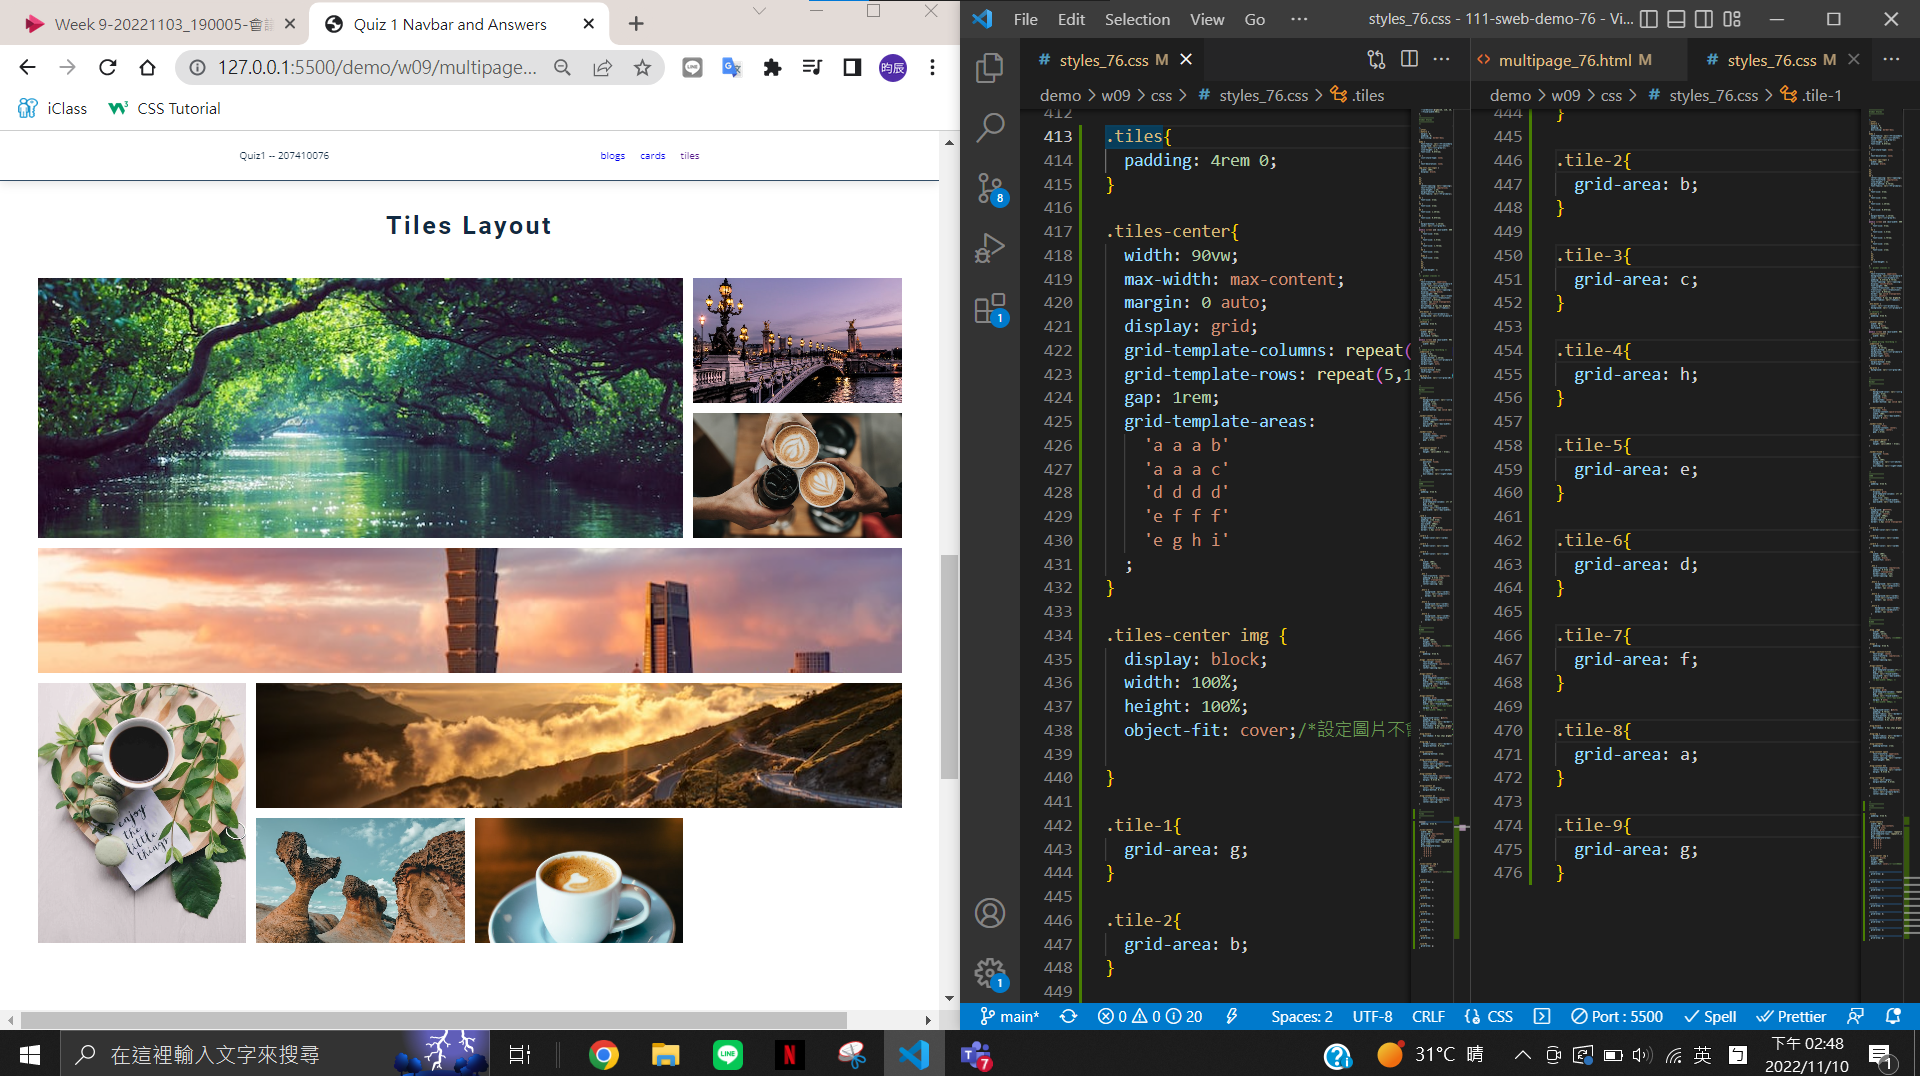
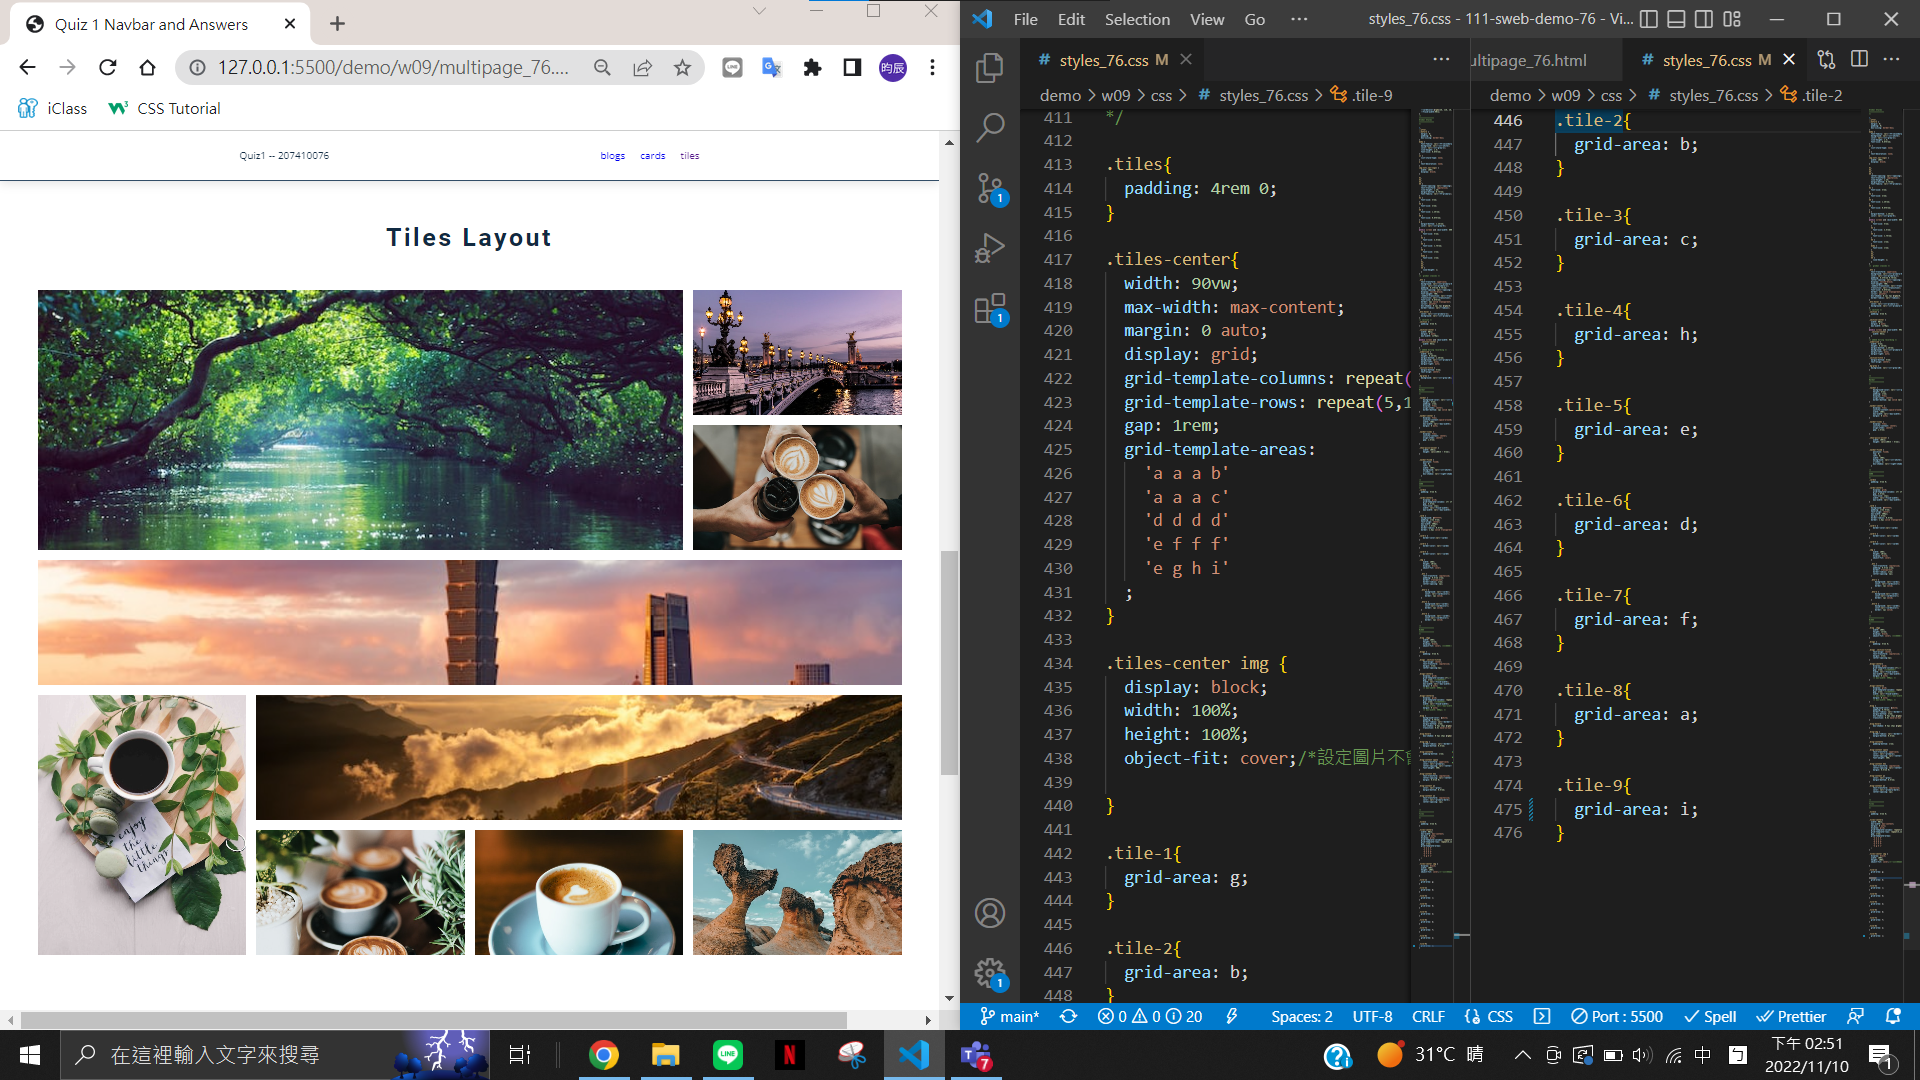
### w09-P3: Resume, show resume-left and resume-right with ratio 30:70

diff --git a/demo/w09/resume_76.html b/demo/w09/resume_76.html
@@ -1,0 +1,17 @@
+<!DOCTYPE html>
+<html lang="en">
+  <head>
+    <meta charset="UTF-8" />
+    <meta http-equiv="X-UA-Compatible" content="IE=edge" />
+    <meta name="viewport" content="width=device-width, initial-scale=1.0" />
+    <title>My Resume</title>
+    <link rel="stylesheet" href="./css/styles_76.css" />
+  </head>
+  <body>
+    <section class="main-resume-section">
+      <div class="resume-left"></div>
+
+      <div class="resume-right"></div>
+    </section>
+  </body>
+</html>

diff --git a/demo/w09/css/styles_76.css b/demo/w09/css/styles_76.css
@@ -472,5 +472,30 @@ Tiles
 }
 
 .tile-9{
-  grid-area: g;
+  grid-area: i;
+}
+
+/*
+=============== 
+resume
+===============
+*/
+
+.main-resume-section{
+  min-height: 100vh;
+  width: 80vw;
+  margin: 2rem auto;
+  display: grid;
+  grid-template-columns: 30fr 70fr;
+
+}
+
+.resume-left{
+  background-color: rgb(0, 22, 88);
+  height: 100%;
+}
+
+.resume-right{
+  background-color: antiquewhite;
+  height: 100%;
 }

diff --git a/demo/w09/multipage_76.html b/demo/w09/multipage_76.html
@@ -29,6 +29,15 @@
             <a href="#section-tiles">tiles</a>
           </li>
        </ul>
+
+       <ul class="navbar-links">
+        <li>
+            <a href="../../demo_76.html">Demo</a>
+        </li>
+          <li>
+            <a href="./resume_76.html">resume</a>
+          </li>
+       </ul>
       </div>
     </nav>
 

diff --git a/MD/w09/w09.md b/MD/w09/w09.md
@@ -3,3 +3,6 @@
 
 ### w09-P2: Show tiles layout of 9 photos
 ![](./p2.png)
+
+### w09-P3: Resume, show resume-left and resume-right with ratio 30:70
+![](./p3.png)
